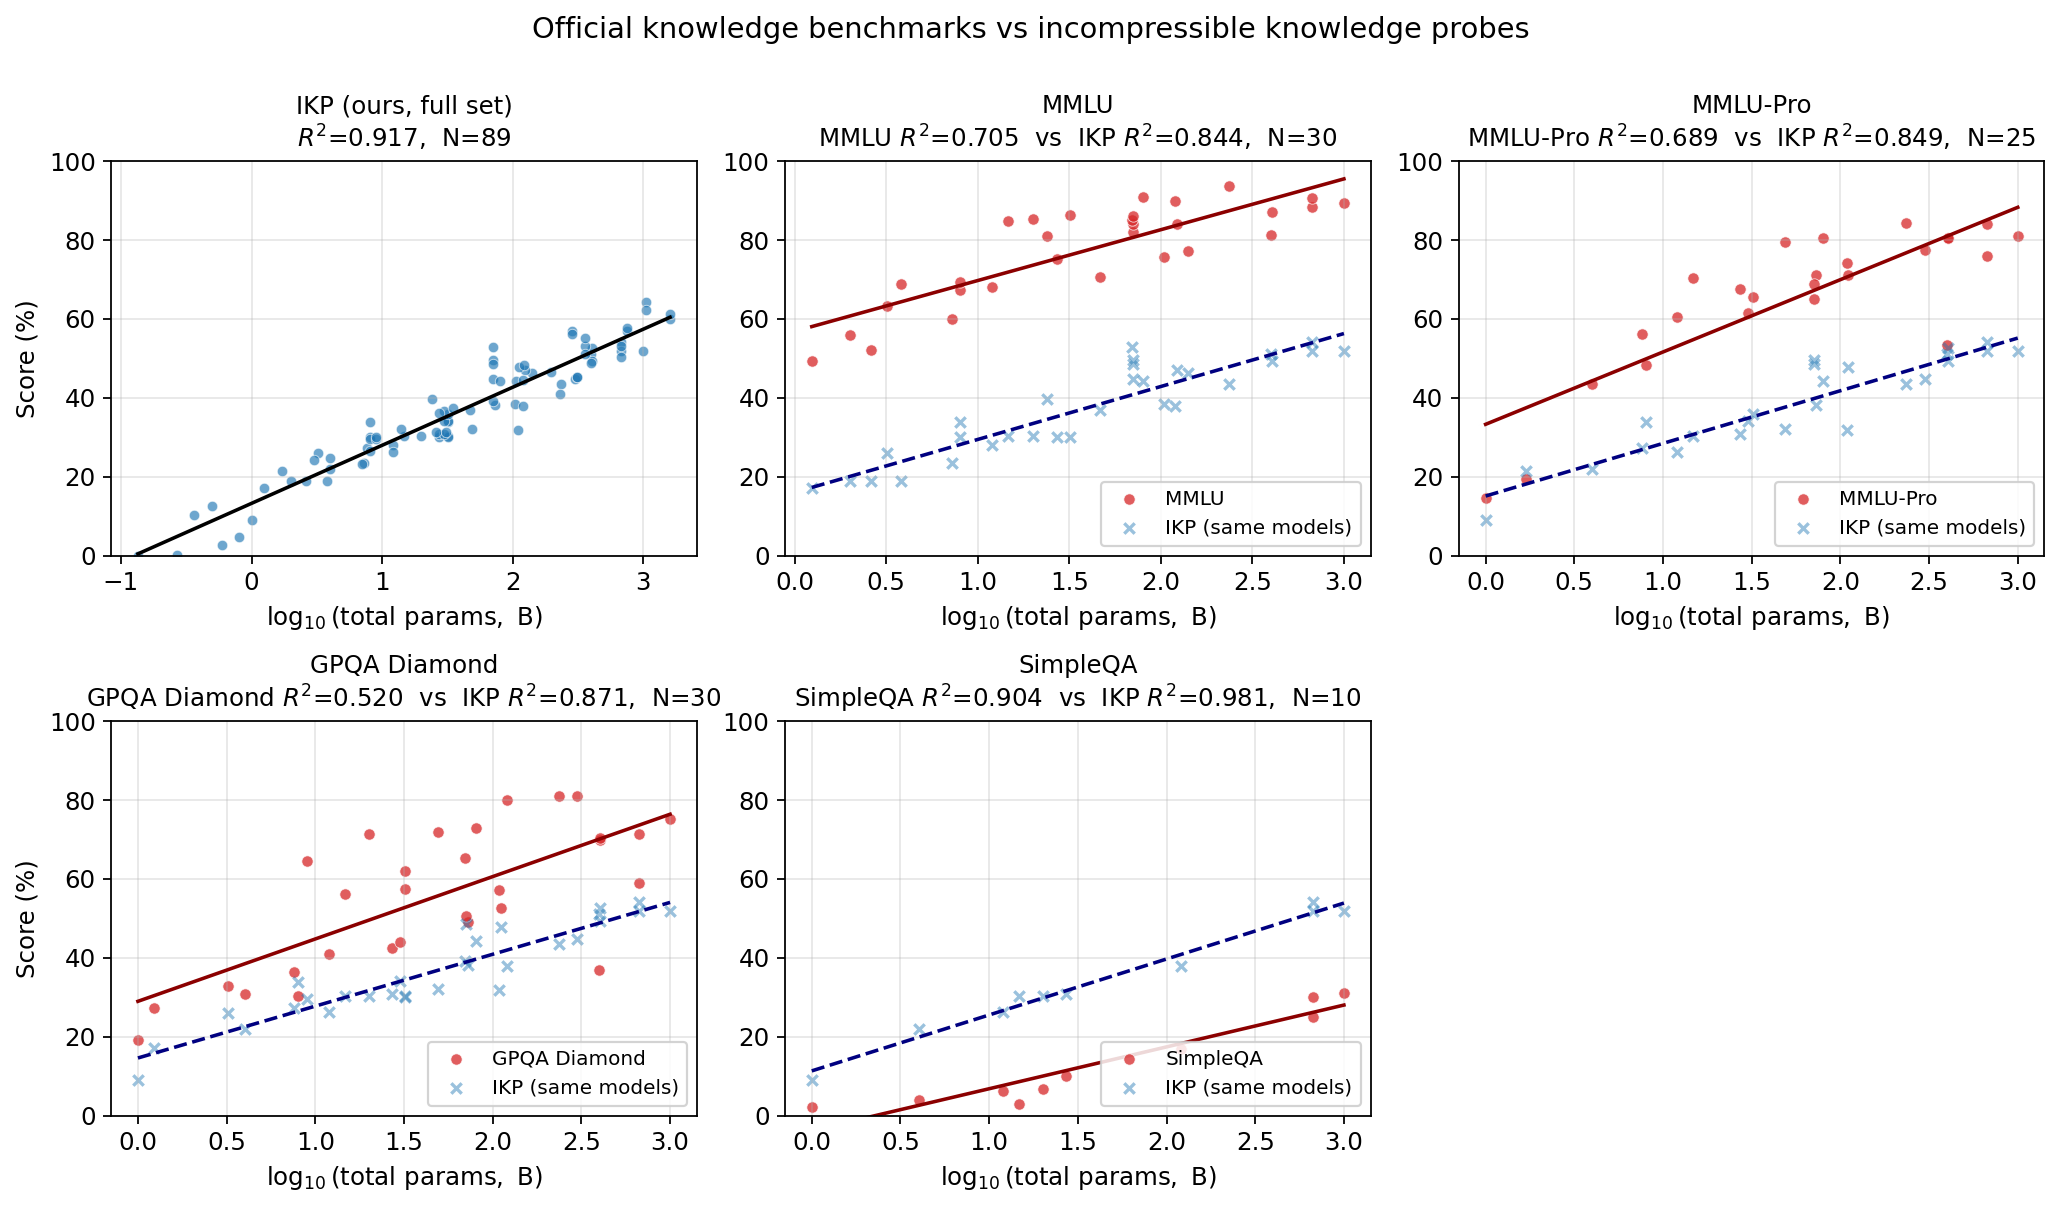
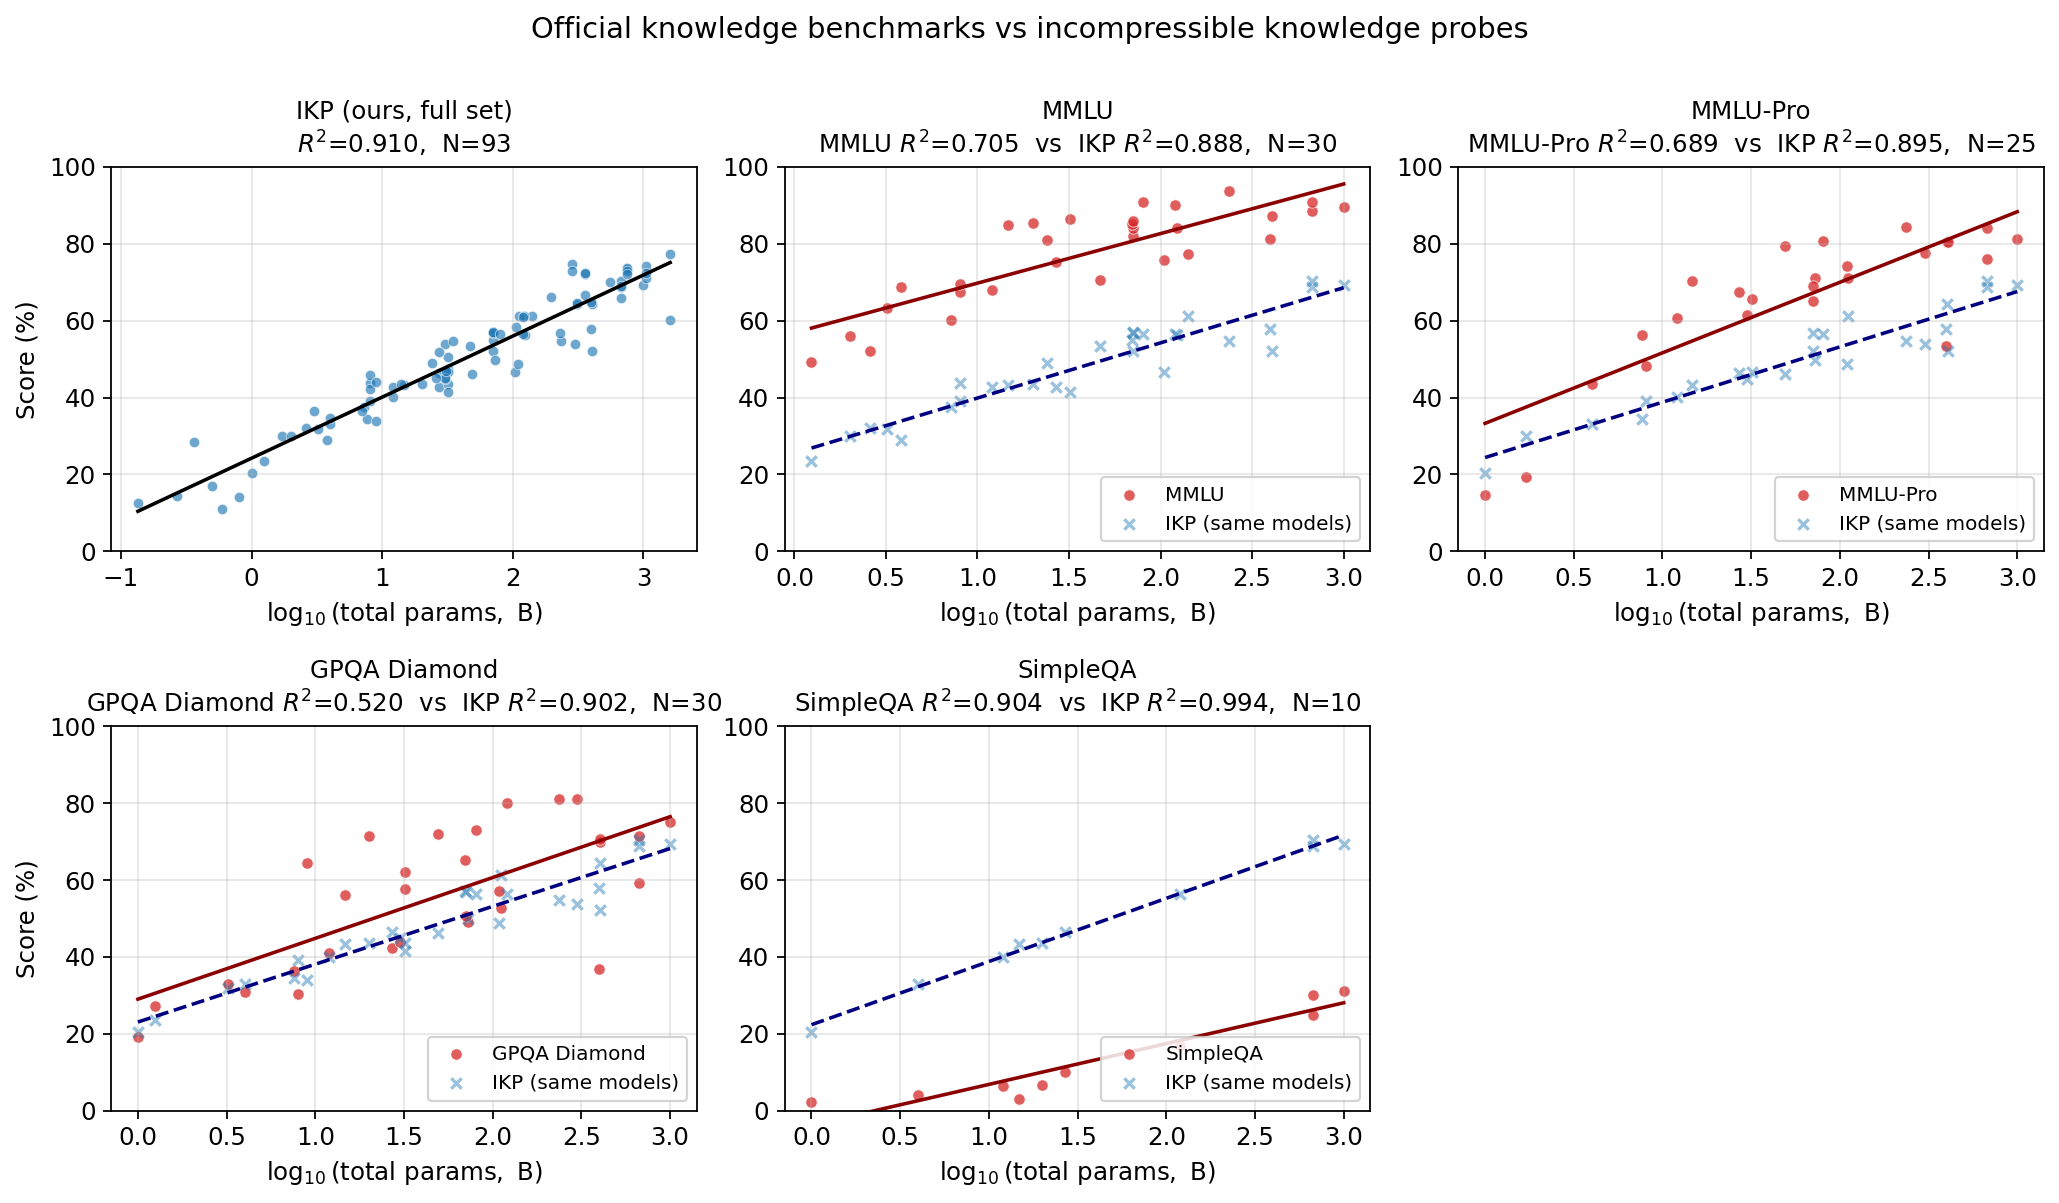
Publication-readiness pass: fix stale numbers and internal contradictions
Triple-reviewed the paper (numeric-vs-data, claims-vs-evidence, LaTeX/prose)
and corrected everything that survived verification:

Densing/benchmark (stale after the λ=0 refresh):
- benchmark-comparison table: IKP full-set time slope -0.06 -> +0.09 pp/month
  (regenerated 16_benchmark_comparison.py on 100 models; sign now matches the
  +0.0013/month headline instead of contradicting it)
- appendix tab:densing-full M_t (time-only) row: +0.0062**/R²=0.1033 ->
  +0.0095***/R²=0.2180 (now matches its own caption and the analysis md)
- densing robustness paragraph: stale n=79/76 and negative β2 -> fresh
  n=98 ([phone redacted]), n=94 ([phone redacted]), active-params (+0.0084), all reject Densing

GPT-5 family appendix (pre-GPT-5.5 stale values):
- "GPT-5.4-pro at 69.2% is the strongest OpenAI model" -> 77.8%, strongest
  below the 5.5 generation (GPT-5.5-pro is 83.4%)
- T5 stratification nano/mini/base 4/20/76% -> 5/25/80%; T3 regression
  57.5/72.0 -> 59.0/75.4; fig caption tier ranges refreshed

Other corrections:
- GPT-4.1/mini hallucination rate 53-72% -> 98-99% (wrong/(wrong+refusal), T5-7)
- retrained-regime threshold ≥15 -> ≥10 joint-wrong (matches code + appendix)
- λ-sweep prose R² 0.90-0.93 / PI 2.7-3.5× -> 0.91-0.94 / 2.6-3.2× (matches fig);
  GPT-4.1 floor 1.1T -> 1.2T; ethics precision 3.0× -> 3.2×
- contamination filter: corrected to drop ML/DL/RL (NLP/CV are retained and
  appear in the recognition table); removed conflicting "~17 subfield labels"
[…]

diff --git a/paper/main.tex b/paper/main.tex
@@ -62,7 +62,7 @@ The generalization: frontier models have become compressed images of the expert 
 
 The same instrument, inverted, addresses a problem practitioners care about for independent reasons. Because closed-source labs do not disclose parameter counts, the field relies on inference economics~\citep{epochai2024, cai2025substitution}---size inferred from API throughput, pricing, and hardware cost models---which carries acknowledged $2\times$+ uncertainty from factors (hardware generation, batching, quantization, serving stack) external to the model itself. A knowledge-based estimator is \emph{intrinsic}: because storing $F$ facts requires at least $F/$(bits per parameter) weights, the furthest tier of the frequency long tail a model has internalized directly constrains its parameter count from below. Measuring how much a model \emph{knows} therefore \emph{estimates}---coarsely---how many parameters it \emph{has}: an inverse problem not previously exploited for parameter estimation, using only black-box API access. As we show, the estimate carries a ${\sim}3\times$ prediction interval; its value is order-of-magnitude sizing and relative ranking, not precise counts.
 
-This reframing matters because of a now-widespread misreading of the ``Densing Law''~\citep{densing2025}: capability per parameter doubles every ${\sim}3.5$ months, a 2026 7B model matches a 2023 70B on MMLU~\citep{hendrycks2021measuring} or HELM~\citep{liang2023holistic}, therefore scaling has stopped mattering. We argue this conflates two distinct resources stored in the same parameter budget. \emph{Procedural} capability---reasoning, parsing, instruction following---is a compressible function over its inputs; better architectures and training recipes genuinely do pack more of it into fewer parameters, and the Densing Law is real for it. \emph{Factual} knowledge is not. ``USTC Hackergame started in 2014'' cannot be derived, computed, or inferred from general knowledge; it must be stored explicitly, and Shannon entropy provides a hard lower bound on the bits required. IKPs isolate this incompressible component, and empirically they do (Section~\ref{sec:densing-falsification}): the time coefficient on IKP accuracy is statistically indistinguishable from zero and rejects the Densing prediction at $p < 10^{-15}$. Benchmark saturation is therefore not evidence that scaling has ended, but that benchmarks have stopped measuring the part of scaling that cannot compress.
+This reframing matters because of a now-widespread misreading of the ``Densing Law''~\citep{densing2025}: capability per parameter doubles every ${\sim}3.5$ months, a 2026 7B model matches a 2023 70B on MMLU~\citep{hendrycks2021measuring} or HELM~\citep{liang2023holistic}, therefore scaling has stopped mattering. We argue this conflates two distinct resources stored in the same parameter budget. \emph{Procedural} capability---reasoning, parsing, instruction following---is a compressible function over its inputs; better architectures and training recipes genuinely do pack more of it into fewer parameters, and the Densing Law is real for it. \emph{Factual} knowledge is not. ``USTC Hackergame started in 2014'' cannot be derived, computed, or inferred from general knowledge; it must be stored explicitly, and Shannon entropy provides a hard lower bound on the bits required. IKPs are designed to isolate this incompressible component, and empirically the isolation holds (Section~\ref{sec:densing-falsification}): the time coefficient on IKP accuracy is statistically indistinguishable from zero and rejects the Densing prediction at $p < 10^{-15}$. Benchmark saturation is therefore not evidence that scaling has ended, but that benchmarks have stopped measuring the part of scaling that cannot compress.
 
 Figure~\ref{fig:calibration} summarises the picture: projecting proprietary frontier scores onto the open-weight calibration line places every major closed model at a coarse effective size (a ${\sim}3\times$ band), several plausibly above the largest open-weight release.
 
@@ -211,7 +211,7 @@ We fit $A = \alpha \cdot \log_{10}(N) + \beta$ where $A$ is aggregate accuracy (
 \section{Experimental Setup}
 \label{sec:setup}
 
-\textbf{Probe set.} 1{,}400 probes (200 per tier, T1--T7) across 16 domains: researcher subfields (345 probes), founding years (532), geography, history, science, culture, and others.
+\textbf{Probe set.} 1{,}400 probes (200 per tier, T1--T7) across 16 domains: researcher subfields (345 probes), founding years, geography, history, science, culture, and others.
 
 \textbf{Models.} 201 models from 27 vendors, accessed via OpenRouter API and local Ollama server. Open-weight models with known parameter counts (93 models after excluding pathological-refuser and post-training-degraded outliers, 135M to 1{,}600B including DeepSeek V4 Pro) serve as calibration data, including models from the Llama~\citep{touvron2023llama, touvron2023llama2}, Qwen~\citep{yang2024qwen2}, Gemma~\citep{gemma2024}, DeepSeek~\citep{deepseek2024v2, deepseek2025r1}, and OLMo~\citep{groeneveld2024olmo} families. Proprietary models (97 models), including GPT-4~\citep{openai2023gpt4}, are estimation targets.
 
@@ -272,7 +272,7 @@ Table~\ref{tab:frontier} shows parameter estimates for the major proprietary mod
 
 \begin{table}[H]
 \centering
-\caption{Effective knowledge capacity of proprietary frontier models, in open-model-equivalent parameters, as 90\% prediction bands (calibration: 93 open models, $R^2 = 0.910$, $\lambda = 0$; PI factor ${\sim}3.2\times$). Higher-scoring variant shown per model. The Gemini 3.x family is excluded (Gemini 3.1 Pro is the T6 landmark; the Flash line inherits its inflation).}
+\caption{Effective knowledge capacity of proprietary frontier models, in open-model-equivalent parameters, as 90\% prediction bands (calibration: 93 open models, $R^2 = 0.910$, $\lambda = 0$; PI factor ${\sim}3.2\times$). Higher-scoring variant shown per model. Estimates above ${\sim}1$T rest on only two calibration anchors and carry wider uncertainty than the global PI factor (Section~\ref{sec:limitations}). The Gemini 3.x family is excluded (Gemini 3.1 Pro is the T6 landmark; the Flash line inherits its inflation).}
 \label{tab:frontier}
 {\small\input{tables/frontier_estimates}}
 \end{table}
@@ -285,11 +285,11 @@ Table~\ref{tab:frontier} shows parameter estimates for the major proprietary mod
 
 \subsection{Per-Tier Discrimination}
 
-Each obscurity tier acts as a different rung of the parameter ladder. Fitting a log-linear regression of per-tier accuracy against $\log_{10}(N)$ on the 93-model calibration set reveals a striking stratification (no-penalty scoring): T1's slope is only $0.072$ per decade; T2 $0.144$; T3 $0.275$; T4 has the steepest slope ($0.297$ per decade) and does not saturate within the calibration range; T5 $0.224$; T6 drops to $0.077$ (nearly flat in log-parameters within the open-weight set); and T7 $\approx 0.022$. Each tier is a step function whose midpoint sits at a different parameter scale, and the seven midpoints together span the ladder. Figure~\ref{fig:heatmap} shows the resulting step-function pattern.
+Each obscurity tier acts as a different rung of the parameter ladder. Fitting a log-linear regression of per-tier accuracy against $\log_{10}(N)$ on the 93-model calibration set reveals a striking stratification (Table~\ref{tab:scaling}, no-penalty scoring): T1's slope is only $0.072$ per decade; T2 $0.144$; T3 $0.275$; T4 has the steepest slope ($0.297$ per decade) and does not saturate within the calibration range; T5 $0.224$; T6 drops to $0.077$ (nearly flat in log-parameters within the open-weight set); and T7 $\approx 0.022$. Each tier is a step function whose midpoint sits at a different parameter scale, and the seven midpoints together span the ladder. Figure~\ref{fig:heatmap} shows the resulting step-function pattern.
 
 \textbf{T3 is the most informative single tier.} It combines a steep slope ($0.275$ per decade), the highest Spearman correlation with overall accuracy ($\rho = 0.965$), and the widest within-set spread (near-zero on sub-1B models up to $97\%$ on the largest open-weights), so a model's T3 score alone is a strong proxy for its overall ranking when compute precludes a full evaluation. T2 is less informative ($\rho = 0.742$) and saturates earlier; T1 is approximately a binary check (is this even a real LM?) and contributes essentially nothing to the discrimination of frontier models. Practically, a 200-probe sub-evaluation drawing primarily from T3 (with a thin T1/T2 sanity check and a thin T5/T6 ceiling check) recovers most of the signal of the full benchmark.
 
-\textbf{T6 discriminates the frontier.} Under no-penalty scoring the open-weight T6 slope is a modest $0.077$/decade, and large open models do register some T6 accuracy (DeepSeek V4 Pro at $16.5\%$ non-thinking, $46.4\%$ thinking), so T6 is a softer separator than under penalized scoring. Even so, the strongest proprietary models lead clearly: GPT-5.5 at $67.4\%$, GPT-5.5-Pro at $72.2\%$, GPT-5.5-Think at $69.5\%$, GPT-5 at $43.9\%$, Claude Opus 4.6-Think at $38.0\%$, o1 at $32.1\%$, and Opus 4.7 at $20.3\%$. The Gemini 3.x family posts the highest T6 scores ($82$--$94\%$), inflated by construction because Gemini 3.1 Pro is the T6 calibration landmark---hence their exclusion from the frontier table. The T6 gap between the leading proprietary models and the open-weight cluster remains the clearest signal of an effective-capacity step beyond $\sim$$2$T.
+\textbf{T6 discriminates the frontier.} Under no-penalty scoring the open-weight T6 slope is a modest $0.077$/decade, and large open models do register some T6 accuracy (DeepSeek V4 Pro at $16.5\%$ non-thinking, $46.4\%$ thinking), so T6 is a softer separator than under penalized scoring. Even so, the strongest proprietary models lead clearly: GPT-5.5 at $67.4\%$, GPT-5.5-Pro at $72.2\%$, GPT-5.5-Think at $69.5\%$, GPT-5 at $43.9\%$, Claude Opus 4.6-Think at $38.0\%$, o1 at $32.1\%$, and Opus 4.7 at $20.3\%$. The Gemini 3.x family posts the highest T6 scores (up to $94\%$), inflated by construction because Gemini 3.1 Pro is the T6 calibration landmark---hence their exclusion from the frontier table. The T6 gap between the leading proprietary models and the open-weight cluster remains the clearest signal of an effective-capacity step beyond $\sim$$2$T.
 
 \textbf{T7 is not a hard ceiling.} We do not treat any tier as a permanent ceiling. An earlier version of IKP, scored with a penalty, reported near-zero T7 accuracy for every model and used T7 as a saturation ``anchor''; that was a scoring artifact---the penalty netted correct answers against bluffs. At $\lambda=0$, T7 accuracy is nonzero for most models (median ${\sim}8\%$) and reaches ${\sim}22$--$28\%$ at the frontier. We do not read this as a clean knowledge measurement: part of it reflects lucky or partially-informed guesses, and ${\sim}9$ T7 probes are miscategorized (too easy; Limitations). T7 is simply the least-saturated tier and the main headroom for future obscurity scaling.
 
@@ -343,7 +343,7 @@ where \texttt{months} is release date measured relative to 2024-01-01. The basel
 \subsection{Why not just use MMLU? Standard knowledge benchmarks as size proxies}
 \label{sec:benchmark-comparison}
 
-A natural question is whether existing knowledge benchmarks could substitute for IKP. We collected vendor-published official scores from primary sources (model cards, system cards, technical reports, vendor blog posts) for four widely-reported benchmarks: MMLU~\citep{hendrycks2021measuring}, MMLU-Pro~\citep{wang2024mmlupro}, GPQA Diamond~\citep{rein2023gpqa}, and SimpleQA~\citep{wei2024simpleqa}. We then fit each benchmark as a parameter-count proxy ($\text{score} \sim \log_{10} N$) and as a Densing-style joint fit ($\text{score} \sim \log_{10} N + \text{months}$), restricting to the same calibration set used for IKP. Crucially, we re-fit IKP on each matched subset so the comparison is apples-to-apples.
+A natural question is whether existing knowledge benchmarks could substitute for IKP. We collected vendor-published official scores from primary sources (model cards, system cards, technical reports, vendor blog posts) for four widely-reported benchmarks: MMLU~\citep{hendrycks2021measuring}, MMLU-Pro~\citep{wang2024mmlupro}, GPQA Diamond~\citep{rein2023gpqa}, and SimpleQA~\citep{wei2024simpleqa}. We then fit each benchmark as a parameter-count proxy ($\text{score} \sim \log_{10} N$) and as a Densing-style joint fit ($\text{score} \sim \log_{10} N + \text{months}$), restricting to the same calibration set used for IKP. Crucially, we re-fit IKP on each matched subset so the comparison is apples-to-apples (Table~\ref{tab:benchmark-comparison}, Figure~\ref{fig:benchmark-comparison}).
 
 \begin{table}[H]
 \centering
@@ -352,7 +352,7 @@ A natural question is whether existing knowledge benchmarks could substitute for
 \toprule
 Metric & $N$ & $R^2$ vs $\log_{10} N$ & IKP $R^2$ (same subset) & Time slope (pp/month) \\
 \midrule
-\textbf{IKP (full set)}      & \textbf{93} & \textbf{0.910} & ---   & \textbf{$-0.06$} \\
+\textbf{IKP (full set)}      & \textbf{93} & \textbf{0.910} & ---   & \textbf{$+0.09$} \\
 SimpleQA                     & 10          & 0.904          & 0.991 & $+0.03$ \\
 MMLU                         & 30          & 0.705          & 0.886 & $+0.58$ \\
 MMLU-Pro                     & 25          & 0.689          & 0.900 & $+0.82$ \\
@@ -394,7 +394,7 @@ The specific set of rare facts (T5--T6) a model knows constitutes a \emph{knowle
 \end{figure}
 
 \paragraph{Three regimes.} Applied pairwise across 201 models, the three metrics cleanly separate into three regimes (Figure~\ref{fig:lineage}a).\footnote{The regime boundaries are empirical: weight-sharing siblings (e.g., GPT-5 / GPT-5-pro at $\mathrm{HSS} = 0.56$, GPT-5-pro / GPT-5-think at $0.52$) concentrate at $\mathrm{HSS} \geq 0.30$, whereas cross-vendor pairs with $\geq 10$ joint-wrong probes have median $\mathrm{HSS} = 0.00$ (mean $0.02$).}
-\emph{Shared base} pairs ($\mathrm{HSS} \geq 0.30$, $J \geq 0.60$) represent the same weights served with different inference or light alignment; \emph{lineage} pairs ($0.10 \leq \mathrm{HSS} < 0.30$) are consistent with post-training, continued pretraining, or distillation on top of a shared ancestor; \emph{retrained} pairs ($\mathrm{HSS} < 0.10$ on $\geq 15$ joint-wrong probes) fall in the same statistical regime as cross-vendor independent pairs even when the models share a version-family label.
+\emph{Shared base} pairs ($\mathrm{HSS} \geq 0.30$, $J \geq 0.60$) represent the same weights served with different inference or light alignment; \emph{lineage} pairs ($0.10 \leq \mathrm{HSS} < 0.30$) are consistent with post-training, continued pretraining, or distillation on top of a shared ancestor; \emph{retrained} pairs ($\mathrm{HSS} < 0.10$ on $\geq 10$ joint-wrong probes) fall in the same statistical regime as cross-vendor independent pairs even when the models share a version-family label.
 
 \begin{figure}[H]
     \centering
@@ -413,7 +413,7 @@ Applied to consecutive-generation pairs within each vendor's family, this test g
     \item \textbf{Zhipu GLM.} GLM 4.5 $\to$ 4.6 (retrained, $0.04$), 4.6 $\to$ 4.7 (lineage, $0.21$), 4.7 $\to$ 5 (retrained, $0.01$) alternate, consistent with a pattern of minor point releases interleaved with full retrains.
 \end{itemize}
 
-\paragraph{Cross-family outliers.} Applying the same test to the ${\sim}14\,000$ cross-vendor pairs flags a small number as $\mathrm{HSS} \geq 0.20$ with $\geq 10$ joint-wrong probes---the regime occupied by shared weights within a vendor. The strongest signal (across multiple tests) is Baidu ERNIE 4.5, which achieves $\mathrm{HSS} = 0.36$--$0.50$ against GPT-4o, Llama-3-70B, Mistral and Qwen-Max simultaneously---a pattern consistent with heavy training on mixed distilled outputs rather than a single teacher. Llama 3.1 70B shows up as an apparent ``teacher'' in a striking number of pairings ($\mathrm{HSS} \geq 0.30$ against grok-3, gemini-2.0-flash, qwen3-max, GPT-4.1-nano, and several other models), which is most likely an artifact of Llama 3.1 being the most widely used open base for synthetic-data generation in 2024. GPT-5 vs.\ Grok-4 ($\mathrm{HSS} = 0.38$, 21 joint-wrong) and GPT-5-pro vs.\ Kimi-K2.6 ($\mathrm{HSS} = 0.32$, 22 joint-wrong) are individually above threshold and merit follow-up, though neither is large enough, at our probe count, to reject an innocent-explanation null with confidence. Full rankings and raw counts are in Appendix~\ref{app:fingerprint}.
+\paragraph{Cross-family outliers.} Applying the same test to the ${\sim}14{,}000$ cross-vendor pairs flags a small number as $\mathrm{HSS} \geq 0.20$ with $\geq 10$ joint-wrong probes---the regime occupied by shared weights within a vendor. The strongest signal (across multiple tests) is Baidu ERNIE 4.5, which achieves $\mathrm{HSS} = 0.36$--$0.50$ against GPT-4o, Llama-3-70B, Mistral and Qwen-Max simultaneously---a pattern consistent with heavy training on mixed distilled outputs rather than a single teacher. Llama 3.1 70B shows up as an apparent ``teacher'' in a striking number of pairings ($\mathrm{HSS} \geq 0.30$ against grok-3, gemini-2.0-flash, qwen3-max, GPT-4.1-nano, and several other models), which is most likely an artifact of Llama 3.1 being the most widely used open base for synthetic-data generation in 2024. GPT-5 vs.\ Grok-4 ($\mathrm{HSS} = 0.38$, 21 joint-wrong) and GPT-5-pro vs.\ Kimi-K2.6 ($\mathrm{HSS} = 0.32$, 22 joint-wrong) are individually above threshold and merit follow-up, though neither is large enough, at our probe count, to reject an innocent-explanation null with confidence. Full rankings and raw counts are in Appendix~\ref{app:fingerprint}.
 
 \subsection{What Determines Whether an LLM Knows Something?}
 \label{sec:recognition}
@@ -519,7 +519,7 @@ Computer architecture         & 32 & 3{,}151  & 19.5 & 0.179 \\
 \subsubsection{Factual Probes About Entities}
 \label{sec:recognition-wikidata}
 
-For the 557 Wikidata-grounded factual probes---dominated (95\%) by founding-year questions about universities, journals, museums, bridges, sports clubs, and places---the picture is sharper and more mechanistic.
+For the 557 Wikidata-grounded factual probes---with founding-year questions the single largest category among universities, journals, museums, bridges, sports clubs, and places---the picture is sharper and more mechanistic.
 
 \textbf{Pageviews dominate sitelinks.} Sitelink count (how many Wikipedia language editions link to the entity) correlates with recognition at Pearson $r = 0.502$ (log-transformed). For a 78-probe subset with English Wikipedia pageview data, pageviews reach $r = 0.774$ and \emph{completely subsume} sitelinks in joint regression (sitelink coefficient falls to $-0.003$ when both are included). Sitelinks measure breadth of multilingual coverage; pageviews approximate English-language discourse volume, which is what actually appears in the training corpora.
 
@@ -597,7 +597,7 @@ This has two implications beyond IKP methodology. First, refusal is now a domina
 
 \subsection{Hallucination Rate as a Vendor Signature}
 
-When models encounter probes beyond their knowledge (T5--T7), the ratio of wrong answers to non-correct responses (wrong / (wrong + refusal)) is a characteristic vendor fingerprint. Google's smaller Gemma models hallucinate at 89--97\%---they almost never refuse---while larger Gemma and Gemini frontier models span 10--90\% (Gemini 3.1 Pro as low as 10\%, Gemini 3 Flash at 35\%). Anthropic Claude averages 11\%, with thinking variants as low as 3\% and non-thinking frontier reaching 28\%. The most striking within-vendor variation appears at OpenAI: GPT-4.1 and GPT-4.1-mini hallucinate at 53--72\%, while GPT-5 nano/mini models drop to 3--4\%---a generational shift in safety calibration that makes the wrong-versus-refuse split a clean vendor-generational signature (Section~\ref{sec:silent-tax}).
+When models encounter probes beyond their knowledge (T5--T7), the ratio of wrong answers to non-correct responses (wrong / (wrong + refusal)) is a characteristic vendor fingerprint. Google's smaller Gemma models hallucinate at 89--97\%---they almost never refuse---while larger Gemma and Gemini frontier models span 10--90\% (Gemini 3.1 Pro as low as 10\%, Gemini 3 Flash at 35\%). Anthropic Claude averages 11\%, with thinking variants as low as 3\% and non-thinking frontier reaching 28\%. The most striking within-vendor variation appears at OpenAI: GPT-4.1 and GPT-4.1-mini hallucinate at 98--99\%, while GPT-5 nano/mini models drop to 3--4\%---a generational shift in safety calibration that makes the wrong-versus-refuse split a clean vendor-generational signature (Section~\ref{sec:silent-tax}).
 
 \subsection{Knowledge Regression Between Generations}
 
@@ -609,6 +609,7 @@ Multiple model families show newer models knowing \emph{less} than their predece
 A common pattern in LLM evaluation is that any benchmark, once influential, eventually saturates: MMLU~\citep{hendrycks2021measuring}, GSM8K~\citep{cobbe2021gsm8k}, SimpleQA~\citep{wei2024simpleqa}, and most recently Humanity's Last Exam~\citep{phan2025hle} are all approaching ceiling on frontier models, in part because the underlying tasks are compressible---once a model has internalized modular arithmetic or the scientific-reasoning template, it solves every instance of that task---and in part because high-profile benchmarks inevitably enter the training pipeline. IKP is structurally resistant to both failure modes. The probes measure stored facts, not procedures, so a model that ``saturates'' a tier has by construction memorized the long-tail facts that tier was sampling---which is precisely the quantity IKP exists to estimate. Direct contamination of the released probe file is a separate concern, but the pipeline (Section~\ref{sec:method}) is itself the benchmark: Wikidata sitelink-stratified sampling, DBLP citation-stratified sampling, and tier calibration against the landmark ladder regenerate a fresh probe set from disjoint entities in a few hours of compute.
 
 \subsection{Limitations}
+\label{sec:limitations}
 
 \textbf{Training-data and post-training variance.} The calibration assumes approximately similar training signals across models. Vendor-specific choices in pretraining-data curation, RLHF refusal calibration, and post-training fine-tuning produce within-family scatter that the calibration absorbs as residual rather than slope. Heavily safety-tuned proprietary models (e.g., Anthropic's Haiku line, the GPT-5 nano/mini variants) systematically read smaller than their underlying weights: under $\lambda=0$ a refused-but-known fact scores as ignorance, so these estimates are lower bounds (Section~\ref{sec:silent-tax}).
 

diff --git a/paper/appendix.tex b/paper/appendix.tex
@@ -60,7 +60,7 @@ The CS scoping (``In computer science'') reduces cross-field name collisions for
 
 \textbf{Per-researcher evidence bundle.} Each researcher carries a structured gold record built from their OpenAlex profile and, for the tail of name-collision-flagged researchers, manually web-verified:
 \begin{itemize}[leftmargin=*,topsep=2pt,itemsep=1pt]
-    \item \texttt{primary\_subfield}: one of $\sim$17 CS subfield labels.
+    \item \texttt{primary\_subfield}: one of a controlled set of CS subfield labels.
     \item \texttt{secondary\_subfields}: 0--3 acceptable adjacent labels for researchers whose work spans multiple subfields.
     \item \texttt{affiliations}: top 1--2 last-known institutions.
     \item \texttt{named\_systems}: short, capitalized system / artifact tokens extracted from paper titles by a regex pass over the top 10 most-cited works (e.g., ``TMO'', ``Zoltan'', ``Wukong'').
@@ -90,7 +90,7 @@ Four filters are applied to every candidate before inclusion. Each filter is con
     \item \textbf{Computable knowledge filter.} Drops probes whose answer can be derived by rule rather than memorization: arithmetic on years (``what year was X 10 years ago''), alphabetical/ordinal answers, IUPAC chemical naming, etc. Implementation: regex + LLM classification, manual review of edge cases.
     \item \textbf{Monotonicity filter.} A probe is admitted only if accuracy across the landmark ladder (Section~\ref{sec:tiers}) is monotonic non-decreasing in landmark capability. Probes where a smaller landmark answers correctly while a larger one does not---typically caused by ambiguous phrasing, multi-valued ground truth, or judge errors---are dropped. Drops $\sim 15\%$ of post-Phase-B candidates.
     \item \textbf{Name-collision filter (researcher probes).} Drops two-character Chinese names and single-initial given names where multiple distinct researchers share the identifier; a 50-citation Liu Yang and a 5{,}000-citation Liu Yang are not the same person. Implementation: cross-check unique \emph{(name, affiliation)} tuples against DBLP author IDs.
-    \item \textbf{Contamination filter (researcher probes).} Drops researchers in machine-learning, deep-learning, NLP, computer vision, and reinforcement-learning subfields. These authors' own work disproportionately appears in frontier-model training corpora, inflating accuracy in a way that conflates IKP-style long-tail knowledge with training-set memorization of one's own field. The remaining 14 CS subfields (systems, databases, security, networking, theory, etc.) are kept.
+    \item \textbf{Contamination filter (researcher probes).} Drops researchers whose primary subfield is machine learning, deep learning, or reinforcement learning. These authors' own work disproportionately appears in frontier-model training corpora, inflating accuracy in a way that conflates IKP-style long-tail knowledge with training-set memorization of one's own field. The 14 retained CS subfields (systems, databases, security, networking, theory, IR, NLP, vision, etc.) are those in Table~\ref{tab:recog-by-field}.
     \item \textbf{Question-template grounding filter.} For Wikidata-sourced probes, every question template embeds a discriminating attribute---year, country, administrative region, genre, language, or publisher---extracted from a Wikidata field that is \emph{not} the answer field. This is the same design used by researcher probes (which prefix every question with ``In computer science''). The filter exists because an audit of the bare-name templates (``In what year was X founded?'') revealed silent failures under title collision: ``Putnam'' could refer to Putnam, Connecticut (Wikidata's intended entity) or Putnam County, Florida; ``Madonna and Child'' refers to dozens of Renaissance paintings. Grounding raises the within-probe identifiability bar without leaking the answer (e.g., ``Who painted the 1522 painting `The Virgin of Carmel'?'' grounds via year without naming the artist). The grounded template is generated programmatically from Wikidata claims at SPARQL time, then independently re-calibrated through the landmark ladder---a non-trivial post-condition, since grounding tends to make probes easier and shift them out of T6/T7. In our audit, $\sim 30\%$ of grounded T7 candidates re-calibrated to T5 (became too easy with grounding) and ${\sim}5\%$ became non-monotonic; the surviving $\sim 65\%$ form the released T6/T7 Wikidata pool.
 \end{enumerate}
 
@@ -192,7 +192,7 @@ The hallucination penalty $\lambda$ (a wrong answer scores $\lambda$; correct $=
 {\setlength{\tabcolsep}{4pt}\input{tables/lambda_sensitivity}}
 \end{table}
 
-\textbf{Findings.} Fit quality is near-flat across the band---$R^2$ ranges only ${\sim}0.90$--$0.93$ and the 90\% PI factor ${\sim}2.7$--$3.5\times$ (Figure~\ref{fig:lambda}, left)---while individual estimates shift $2$--$3\times$ in a \emph{vendor-dependent} way (Figure~\ref{fig:lambda}, right): a heavier penalty raises models that refuse rather than bluff (Claude Opus~4.7, $0.55 \to 1.5$T from $\lambda = 0$ to $-2$) and lowers confident guessers (GPT-4.1, $2.2 \to 1.1$T), reattributing above-trend scores from hallucination to genuine capacity.
+\textbf{Findings.} Fit quality is near-flat across the band---$R^2$ ranges only ${\sim}0.91$--$0.94$ and the 90\% PI factor ${\sim}2.6$--$3.2\times$ (Figure~\ref{fig:lambda}, left)---while individual estimates shift $2$--$3\times$ in a \emph{vendor-dependent} way (Figure~\ref{fig:lambda}, right): a heavier penalty raises models that refuse rather than bluff (Claude Opus~4.7, $0.55 \to 1.5$T from $\lambda = 0$ to $-2$) and lowers confident guessers (GPT-4.1, $2.2 \to 1.2$T), reattributing above-trend scores from hallucination to genuine capacity.
 
 \begin{figure}[H]
 \centering
@@ -380,7 +380,7 @@ This appendix provides the full regression tables supporting the Densing-Law fal
     M1: + months                  & $+0.1445^{***}$ & $+0.0013$ & --- & --- & $0.8181$ \\
     M2: + thinking                & $+0.1421^{***}$ & $+0.0008$ & $+0.0277$ & --- & $0.8237$ \\
     M3: + MoE                     & $+0.1415^{***}$ & $+0.0007$ & $+0.0276$ & $+0.0022$ & $0.8237$ \\
-    M$_t$: time only              & ---             & $+0.0062^{**}$ & --- & --- & $0.1033$ \\
+    M$_t$: time only              & ---             & $+0.0095^{***}$ & --- & --- & $0.2180$ \\
     \bottomrule
     \end{tabular}
     \caption{Full regression results for the Densing-Law analysis ($n = 100$). Entries are point estimates; $^{***}p < 0.001$, $^{**}p < 0.01$. The time coefficient is statistically indistinguishable from zero in every specification that controls for parameter count (M1--M3). The time-only model (M$_t$) produces a nominally significant but much smaller slope than the Densing prediction, and its explanatory power ($R^2 = 0.22$) collapses once log-params is included---indicating the residual time correlation is a selection effect (newer models skew larger), not a real per-parameter trend.}
@@ -407,7 +407,7 @@ This appendix provides the full regression tables supporting the Densing-Law fal
 
 \paragraph{Bootstrap inference.} A 4000-replicate nonparametric bootstrap on M1 gives a 95\% CI for the time coefficient of $[-0.00037, [phone redacted]]$, spanning zero and well below the Densing target of $[phone redacted]$. The gap between the upper bound and the Densing prediction is roughly $11\times$ the bootstrap standard error.
 
-\paragraph{Robustness.} Three additional checks confirm the main finding: (i) excluding the two DeepSeek-R1 distilled models ($n = 79$) leaves $\hat\beta_2 = -0.00051$/month; (ii) excluding the five landmark models ($n = 76$) leaves $\hat\beta_2 = -0.00018$/month. In both cases the Densing prediction is rejected at $p < 10^{-15}$. Check (iii) uses $\log_{10}(\text{active\_B})$ in place of total parameters and yields $\hat\beta_2 = +0.0063$/month---nominally significant but still only half the Densing target, and also rejecting the Densing prediction ($p \approx 10^{-4}$). The apparent time effect on the active-params regression is a known artifact: MoE models store knowledge across all experts, not just the ones activated per token (Section~\ref{sec:results}), so active-params overstates $N_\mathrm{fact}$ for dense models and understates it for MoEs in a way that correlates with release date (newer models are more often MoE). This is why our preferred specification uses total parameters.
+\paragraph{Robustness.} Three additional checks confirm the main finding: (i) excluding the two DeepSeek-R1 distilled models ($n = 98$) leaves $\hat\beta_2 = [phone redacted]$/month ($p = 0.18$ vs.\ zero); (ii) excluding the six sub-1B anchor models ($n = 94$) leaves $\hat\beta_2 = [phone redacted]$/month ($p = 0.06$). In both cases the Densing prediction is rejected at $p < 10^{-14}$. Check (iii) uses $\log_{10}(\text{active\_B})$ in place of total parameters and yields $\hat\beta_2 = +0.0084$/month---nominally significant but still only two-thirds of the Densing target, and also rejecting the Densing prediction ($p \approx 10^{-4}$). The apparent time effect on the active-params regression is a known artifact: MoE models store knowledge across all experts, not just the ones activated per token (Section~\ref{sec:results}), so active-params overstates $N_\mathrm{fact}$ for dense models and understates it for MoEs in a way that correlates with release date (newer models are more often MoE). This is why our preferred specification uses total parameters.
 
 \paragraph{Date uncertainty.} Release dates for post-January-2026 models (e.g., Claude Opus 4.7, Qwen 3.5 series, Kimi K2.6, GLM-5.1, Ling-2.6-flash) were collected contemporaneously; other dates are vendor-announced release dates. A small amount of date noise (${\pm}1$ month per observation) would inflate $\mathrm{SE}(\hat\beta_2)$ but leaves the point estimate unchanged in expectation. To hide a Densing-magnitude effect would require systematic backdating of post-2025 releases by ${>}3$ months each, which is not what our sources support.
 
@@ -416,7 +416,7 @@ This appendix provides the full regression tables supporting the Densing-Law fal
 
 Figure~\ref{fig:gen-trajectories} traces knowledge evolution across model generations for 7 major families. Most families show steady improvement, but several notable regressions occur when vendors optimize for efficiency or safety at the expense of factual recall. Figure~\ref{fig:gpt5-family} reveals the internal size stratification of the GPT-5 family.
 
-\paragraph{GPT-5 family internal structure.} The 15 GPT-5 variants in our evaluation reveal OpenAI's model lineup structure through both coarse (overall-accuracy) and fine (knowledge-fingerprint) analysis. Clear size stratification appears at T5: nano (4\%), mini (20\%), base (76\%)---a ${\sim}20\times$ knowledge gap---with a ``pro'' shelf above the base (GPT-5.4-pro at 69.2\% is the strongest OpenAI model in the evaluation). Each \texttt{.x} iteration generally improves overall accuracy, but GPT-5.4-nano regresses from GPT-5-nano on T3 (57.5\% vs 72.0\%), suggesting a different distillation approach between generations. The fingerprint evidence (Section~\ref{sec:fingerprint}, Appendix~\ref{app:fingerprint}) is consistent with a shared-base GPT-5 / 5-pro / 5-think cluster followed by a sequence of retrains: each \texttt{.x} release (5.1, 5.2, 5.3, 5.4) sits in the retrained regime relative to its predecessor, with only the ``pro'' variants (5.2-pro, 5.4-pro) tied to their base by lineage-level HSS.
+\paragraph{GPT-5 family internal structure.} The 15 GPT-5 variants in our evaluation reveal OpenAI's model lineup structure through both coarse (overall-accuracy) and fine (knowledge-fingerprint) analysis. Clear size stratification appears at T5: nano (5\%), mini (25\%), base (80\%)---a ${\sim}16\times$ knowledge gap---with a ``pro'' shelf above the base (GPT-5.4-pro at 77.8\% overall, the strongest OpenAI model below the 5.5 generation). Each \texttt{.x} iteration generally improves overall accuracy, but GPT-5.4-nano regresses from GPT-5-nano on T3 (59.0\% vs 75.4\%), suggesting a different distillation approach between generations. The fingerprint evidence (Section~\ref{sec:fingerprint}, Appendix~\ref{app:fingerprint}) is consistent with a shared-base GPT-5 / 5-pro / 5-think cluster followed by a sequence of retrains: each \texttt{.x} release (5.1, 5.2, 5.3, 5.4) sits in the retrained regime relative to its predecessor, with only the ``pro'' variants (5.2-pro, 5.4-pro) tied to their base by lineage-level HSS.
 
 \begin{figure}[H]
     \centering
@@ -428,7 +428,7 @@ Figure~\ref{fig:gen-trajectories} traces knowledge evolution across model genera
 \begin{figure}[H]
     \centering
     \includegraphics[width=0.9\textwidth]{figures/fig_a4_gpt5_family.pdf}
-    \caption{GPT-5 family size stratification revealed by IKP. T5 accuracy (annotated) shows clear tiers: nano (0--3\%), mini (19--41\%), base (51--77\%), pro (74--76\%). GPT-5, GPT-5-pro, and GPT-5-think score nearly identically, suggesting the same base model with different inference configurations.}
+    \caption{GPT-5 family size stratification revealed by IKP. T5 accuracy (annotated) shows clear tiers: nano (5--6\%), mini (25--53\%), base (60--95\%), pro (60--94\%). GPT-5, GPT-5-pro, and GPT-5-think score nearly identically, suggesting the same base model with different inference configurations.}
     \label{fig:gpt5-family}
 \end{figure}
 
@@ -448,7 +448,7 @@ This appendix expands Section~\ref{sec:fingerprint} with the complete consecutiv
     \item \emph{Full retrains} (retrained): every GPT-5.$x$ $\to$ 5.$(x{+}1)$ transition for $x = 0,1,2,3$; Claude Opus 4.6 $\to$ 4.7; every cross-generation Gemini pair; GLM 4.7 $\to$ 5 and 5 $\to$ 5.1. For these, the same-wrong-answer count is statistically indistinguishable from what we see between models built by different vendors, despite the shared version-family label.
 \end{itemize}
 
-\paragraph{Cross-vendor outliers: how to read the table.} Applying the same test to the ${\sim}14\,000$ cross-vendor pairs flags a small fraction at $\mathrm{HSS} \geq 0.20$ with $\geq 10$ joint-wrong probes (the full list is Table~\ref{tab:fp-cross-full}). Interpretation requires care: a single high-$\mathrm{HSS}$ pair between two independent frontier models is not strong evidence of cross-family distillation given the number of pairs tested. More suggestive is the \emph{pattern} across pairs involving the same model on one side:
+\paragraph{Cross-vendor outliers: how to read the table.} Applying the same test to the ${\sim}14{,}000$ cross-vendor pairs flags a small fraction at $\mathrm{HSS} \geq 0.20$ with $\geq 10$ joint-wrong probes (the full list is Table~\ref{tab:fp-cross-full}). Interpretation requires care: a single high-$\mathrm{HSS}$ pair between two independent frontier models is not strong evidence of cross-family distillation given the number of pairs tested. More suggestive is the \emph{pattern} across pairs involving the same model on one side:
 
 \begin{itemize}[leftmargin=*]
     \item \textbf{Baidu ERNIE 4.5-300B-A47B} is above the cross-vendor threshold against four independent models simultaneously (Llama-3-70B $\mathrm{HSS}=0.50$, GPT-4o $0.46$, Mistral-Small-24B $0.40$, Qwen-Max $0.36$). This is the pattern expected when a model is trained on a large mixture of distilled outputs from Western frontier models rather than on a single teacher.
@@ -646,7 +646,7 @@ Thinking mode not only helps with recall but can also correct hallucinations. He
 \section{Ethical Considerations}
 \label{app:ethics}
 
-This work estimates proprietary model sizes from public API access, which raises considerations for competitive intelligence and intellectual property. We note that: (1)~parameter count is only one dimension of model capability, and our estimates are effective capacity (not literal architecture); (2)~the method provides ${\sim}3.0\times$ precision, insufficient for reverse-engineering proprietary designs; and (3)~similar estimates are already publicly available from inference-economics analyses~\citep{epochai2024}. Knowledge fingerprinting for cross-model lineage analysis could be used to enforce licensing terms (a legitimate use) or to make unfounded IP claims (a misuse). We encourage responsible use of these tools for transparency and governance rather than competitive surveillance.
+This work estimates proprietary model sizes from public API access, which raises considerations for competitive intelligence and intellectual property. We note that: (1)~parameter count is only one dimension of model capability, and our estimates are effective capacity (not literal architecture); (2)~the method provides ${\sim}3.2\times$ precision, insufficient for reverse-engineering proprietary designs; and (3)~similar estimates are already publicly available from inference-economics analyses~\citep{epochai2024}. Knowledge fingerprinting for cross-model lineage analysis could be used to enforce licensing terms (a legitimate use) or to make unfounded IP claims (a misuse). We encourage responsible use of these tools for transparency and governance rather than competitive surveillance.
 
 All information presented in this paper is drawn from publicly available sources. The author has no internal access to, confidential briefings about, or non-public collaboration with any frontier LLM vendor; in particular, the parameter and effective-capacity estimates for proprietary models are produced \emph{entirely} from external behavioral measurements and the open-weight calibration set.
 